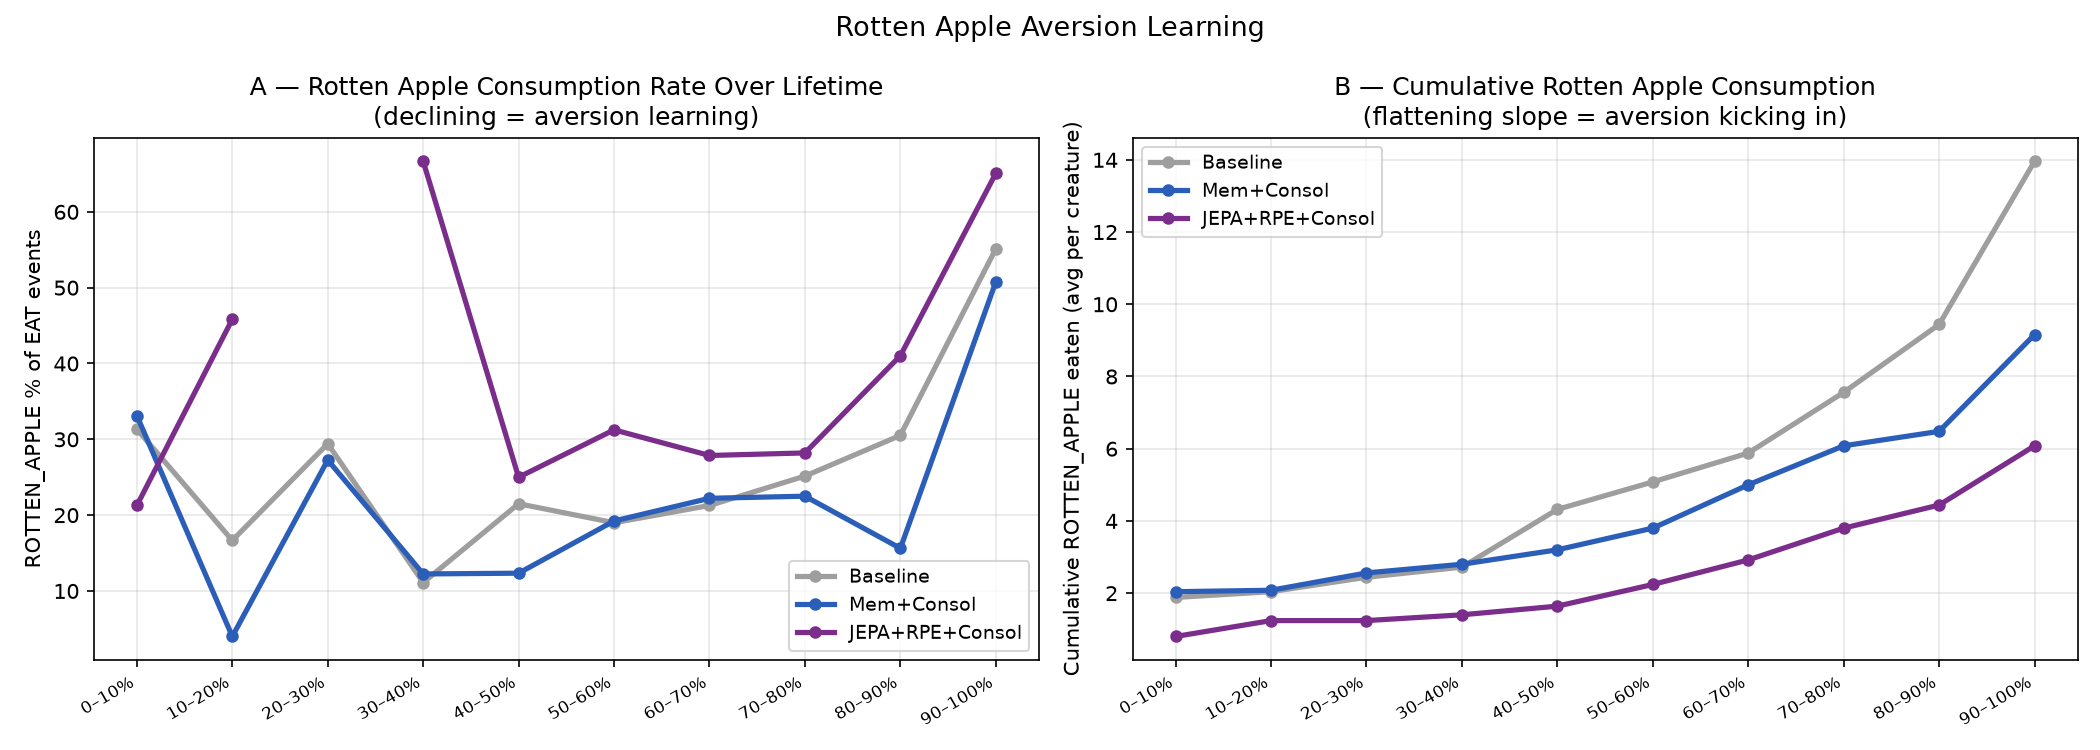
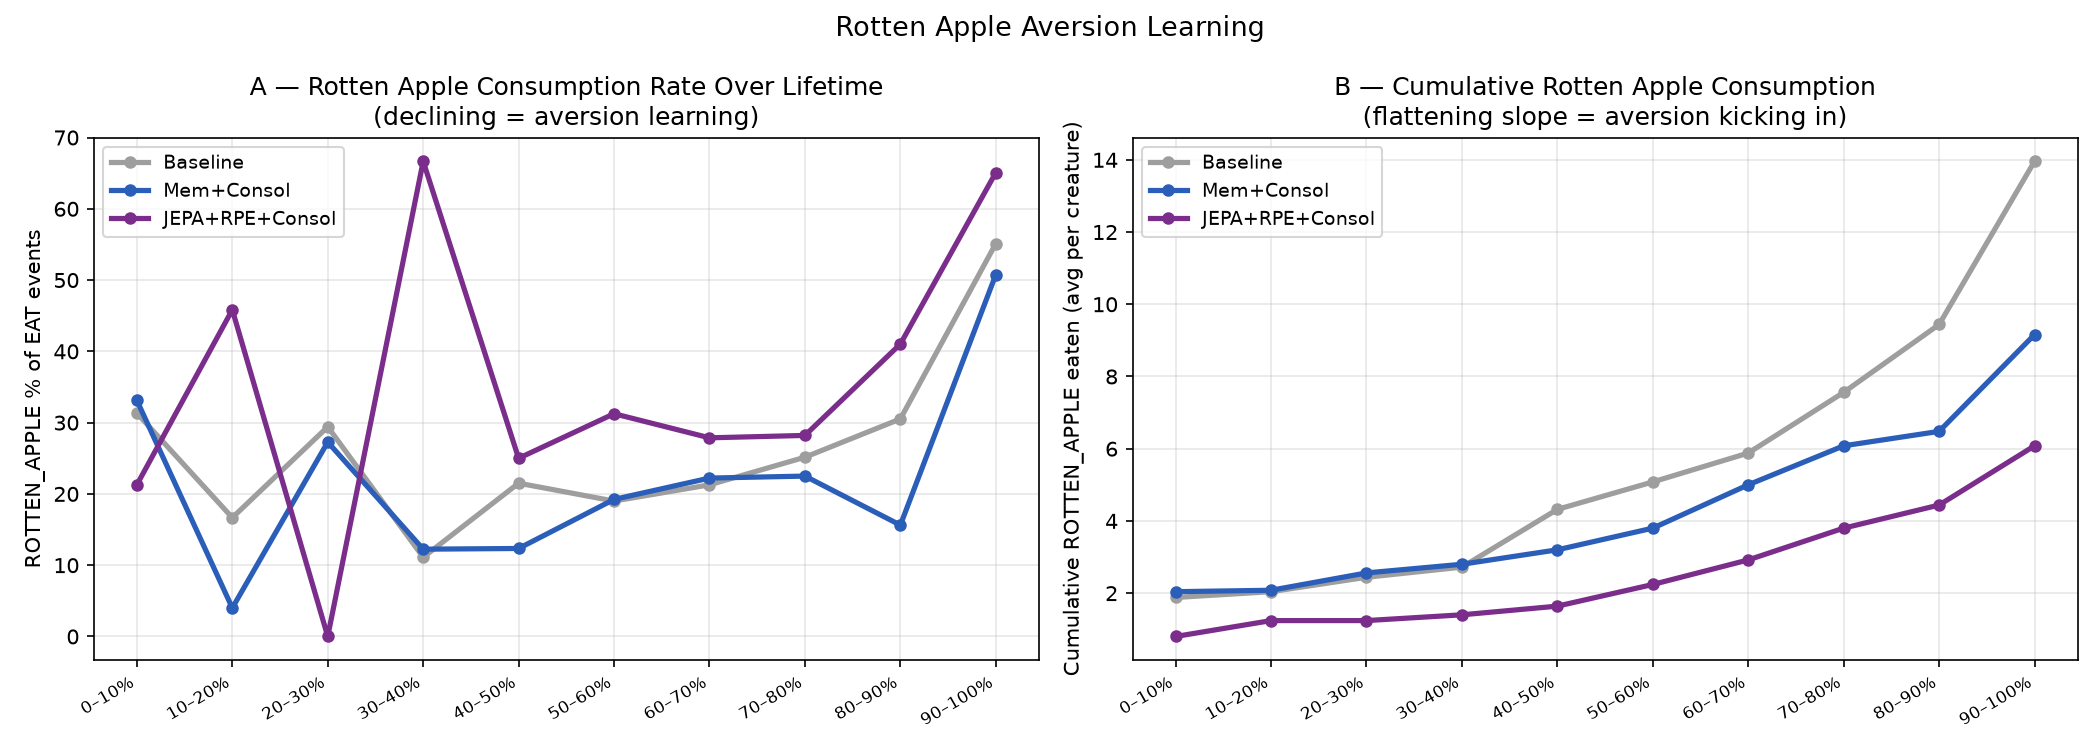
fix(rotten-fruit): correct four figure/report bugs in rotten_fruit_v1 analysis
- Survival figure: y-axis now shows minutes instead of seconds (/ 60)
- Neuromodulators: use elapsed_s (wall-clock approximation via seq/max_seq × lifetime)
  instead of raw seq ticks, so JEPA and baseline lines span equal real time
- Rotten apple consumption: reindex both rotten_by_decile and total_by_decile to
  all 10 deciles before dividing, eliminating NaN gap in JEPA purple line
- Report: clarify H1 (survival confirmed) vs H2 (aversion behavior not confirmed)
  are separate hypotheses; update lifetime table to minutes

diff --git a/analysis/exp_rotten_fruit_v1.py b/analysis/exp_rotten_fruit_v1.py
@@ -121,6 +121,19 @@ neuro["dopamine"]       = num(neuro["dopamine"])
 neuro["serotonin"]      = num(neuro["serotonin"])
 neuro["orexin"]         = num(neuro["orexin"])
 neuro["seq"]            = num(neuro["seq"])
+
+# Approximate wall-clock elapsed time for neuromodulator records.
+# seq is a tick-based counter (not wall-clock time): JEPA creatures have fewer
+# ticks per second than baseline, so raw seq is misleading as a time axis.
+# We linearly interpolate: elapsed_s ≈ (seq / max_seq_per_creature) × lifetime_s.
+_neuro_max_seq = (
+    neuro.groupby(["creature_key", "condition", "trial"])["seq"]
+    .max().reset_index(name="neuro_max_seq")
+)
+_neuro_lifetime = creatures[["creature_key", "condition", "trial", "lifetime_s"]].drop_duplicates()
+_neuro_max_seq = _neuro_max_seq.merge(_neuro_lifetime, on=["creature_key", "condition", "trial"], how="left")
+neuro = neuro.merge(_neuro_max_seq, on=["creature_key", "condition", "trial"], how="left")
+neuro["elapsed_s"] = (neuro["seq"] / neuro["neuro_max_seq"].clip(lower=1)) * num(neuro["lifetime_s"])
 expectancy["rpe"]       = num(expectancy["rpe"])
 expectancy["expected"]  = num(expectancy["expected"])
 expectancy["reward"]    = num(expectancy["reward"])
@@ -211,11 +224,11 @@ ticks_by_cond = {ck: creatures[creatures["condition"] == ck]["tick_count"].value
 fig, axes = plt.subplots(1, 2, figsize=(13, 5))
 
 ax = axes[0]
-bp = ax.boxplot([np.array(lifetimes[ck]) for ck, _ in CONDITIONS],
+bp = ax.boxplot([np.array(lifetimes[ck]) / 60 for ck, _ in CONDITIONS],
                 tick_labels=COND_LABELS, patch_artist=True)
 for patch, (ck, _) in zip(bp["boxes"], CONDITIONS):
     patch.set_facecolor(PALETTE[ck]); patch.set_alpha(0.7)
-ax.set_ylabel("Lifetime (s)")
+ax.set_ylabel("Lifetime (min)")
 ax.set_title("Wall-clock Lifetime")
 ax.grid(axis="y", alpha=0.3)
 
@@ -261,8 +274,12 @@ for ck, cl in CONDITIONS:
         total_mouth[total_mouth["condition"] == ck]
         .groupby("life_decile").size()
     )
-    pct = (rotten_by_decile / total_by_decile.clip(lower=1) * 100).reindex(range(10), fill_value=np.nan)
-    ax.plot(range(10), pct.values, color=PALETTE[ck], lw=2.5, marker="o", ms=5, label=cl)
+    # Reindex both to all 10 deciles before dividing to avoid NaN from missing keys.
+    # Deciles with total=0 → NaN (genuinely no data); deciles with total>0, rotten=0 → 0%.
+    r_filled = rotten_by_decile.reindex(range(10), fill_value=0)
+    t_filled = total_by_decile.reindex(range(10), fill_value=0)
+    pct = np.where(t_filled > 0, r_filled / t_filled.clip(lower=1) * 100, np.nan)
+    ax.plot(range(10), pct, color=PALETTE[ck], lw=2.5, marker="o", ms=5, label=cl)
 
 ax.set_xticks(range(10))
 ax.set_xticklabels(DECILE_LABELS, rotation=30, ha="right", fontsize=8)
@@ -467,8 +484,8 @@ print("  → 05_drives.png")
 # ══════════════════════════════════════════════════════════════════════════════
 print("\n=== 6. NEUROMODULATORS ===")
 
-BIN_N = 300
-neuro["time_bin"] = (neuro["seq"] // BIN_N).astype(int)
+BIN_S_NEURO = 5  # 5-second bins based on approximated wall-clock elapsed time
+neuro["time_bin"] = (neuro["elapsed_s"] // BIN_S_NEURO).clip(lower=0).astype(int)
 
 fig, axes = plt.subplots(1, 3, figsize=(16, 5))
 for ax, nm, nm_name in zip(axes, ["dopamine", "serotonin", "orexin"],
@@ -476,7 +493,7 @@ for ax, nm, nm_name in zip(axes, ["dopamine", "serotonin", "orexin"],
     for ck, cl in CONDITIONS:
         sub = neuro[neuro["condition"] == ck]
         gb  = sub.groupby("time_bin")[nm].mean()
-        t   = gb.index * BIN_N / 60
+        t   = gb.index * BIN_S_NEURO / 60
         ax.plot(t, gb, color=PALETTE[ck], lw=2, label=cl)
     ax.set_title(nm_name)
     ax.set_xlabel("Time (min)")

diff --git a/docs/reports/rotten_fruit_v1_report.md b/docs/reports/rotten_fruit_v1_report.md
@@ -55,11 +55,11 @@ error mechanism can detect the novel item and adapt creature behaviour within a 
 
 ![Survival](figures/rotten_fruit_v1/01_survival.png)
 
-| Condition | Lifetime (s) | ± SD | n |
+| Condition | Lifetime (min) | ± SD | n |
 |-----------|:-----------:|:----:|:-:|
-| Baseline | 106.72 | 24.52 | 25 |
-| Mem+Consol | 98.58 | 25.86 | 25 |
-| **JEPA+RPE+Consol** | **141.84** | 30.87 | 25 |
+| Baseline | 1.78 | 0.41 | 25 |
+| Mem+Consol | 1.64 | 0.43 | 25 |
+| **JEPA+RPE+Consol** | **2.36** | 0.51 | 25 |
 
 Kruskal-Wallis: H = 21.714, p < 0.0001.
 
@@ -69,10 +69,10 @@ Kruskal-Wallis: H = 21.714, p < 0.0001.
 | Baseline vs JEPA+RPE+Consol | 0.0003 | *** |
 | Mem+Consol vs JEPA+RPE+Consol | < 0.0001 | *** |
 
-**H1: Confirmed.** JEPA+RPE+Consol creatures survive **33% longer** than baseline (141.8s vs
-106.7s, p = 0.0003) and **44% longer** than Memory+Consolidation (p < 0.0001). Notably, the
+**H1: Confirmed.** JEPA+RPE+Consol creatures survive **33% longer** than baseline (2.36 min vs
+1.78 min, p = 0.0003) and **44% longer** than Memory+Consolidation (p < 0.0001). Notably, the
 Memory condition shows no survival advantage over baseline in the novel world (p = 0.313 ns),
-and its mean lifetime is actually lower (98.6s vs 106.7s).
+and its mean lifetime is actually lower (1.64 min vs 1.78 min).
 
 ### 2. Rotten Apple Consumption
 
@@ -90,11 +90,14 @@ and its mean lifetime is actually lower (98.6s vs 106.7s).
 | Mem+Consol | 374 (42.4%) | 279 (31.6%) | 229 (26.0%) |
 | JEPA+RPE+Consol | 183 (41.7%) | 104 (23.7%) | 152 (34.6%) |
 
-**H2: Not confirmed.** None of the conditions show meaningful rotten apple avoidance within
-the 2-hour window. The JEPA condition has the highest rotten apple percentage (34.6%) despite
-surviving the longest, though it has far fewer total eating events (439 vs 1,177 for baseline).
-The Memory+Consolidation condition shows a modest reduction in rotten proportion (26.0%), but
-this is not statistically distinguishable from baseline-level variability within 5 trials.
+**H2: Not confirmed.** While H1 established that JEPA+RPE+Consol creatures *survive* longer
+(2.36 min vs 1.78 min), H2 asks a separate question: does any condition learn a *behavioral
+aversion* to rotten apples specifically? The answer is no. No condition reduces its rotten apple
+consumption proportion over the 2-hour window. The JEPA condition actually has the highest
+rotten apple percentage (34.6%) despite surviving the longest, though it has far fewer total
+eating events (439 vs 1,177 for baseline). The Memory+Consolidation condition shows a modest
+reduction in rotten proportion (26.0%), but this is not statistically distinguishable from
+baseline-level variability within 5 trials.
 
 JEPA creatures eat dramatically less overall (439 EAT events vs 1,177 baseline). This is not
 explained by food deprivation — these creatures survive longer, suggesting they are more
@@ -238,7 +241,7 @@ between consolidation overhead and adaptation benefit warrants further study.
 
 | Metric | Baseline | Mem+Consol | JEPA+RPE+Consol |
 |--------|:-------:|:----------:|:----------------:|
-| Lifetime (s) | 106.7 | 98.6 | **141.8** |
+| Lifetime (min) | 1.78 | 1.64 | **2.36** |
 | Ticks | 9,587 | 8,752 | **5,349** |
 | Total EAT | **1,177** | 882 | 439 |
 | Rotten EAT | 349 | 229 | 152 |
@@ -255,15 +258,16 @@ between consolidation overhead and adaptation benefit warrants further study.
 ## Conclusions
 
 **H1: Confirmed.** JEPA+RPE+Consol survives significantly longer in the novel rotten-fruit
-world (141.8s vs 106.7s baseline, p = 0.0003). The survival advantage is driven by systemic
+world (2.36 min vs 1.78 min baseline, p = 0.0003). The survival advantage is driven by systemic
 efficiency (lower arousal, fewer opportunistic eating events, fewer rotten encounters)
 rather than by learned specific aversion.
 
-**H2: Not confirmed.** No condition shows behavioural rotten-apple aversion within the
-2-hour experiment window. JEPA creatures actually eat a slightly higher proportion of rotten
-apples (34.6% vs 29.7%) despite having fewer absolute rotten eating events. Meaningful
-avoidance learning would likely require 4–8 hours or multiple repeated trials in the same
-world.
+**H2: Not confirmed.** H1 and H2 address distinct questions. H1 is about survival — confirmed.
+H2 asks whether any condition learns a *behavioral aversion to rotten apples specifically* —
+not confirmed. No condition reduces its rotten apple consumption proportion over the 2-hour
+window. JEPA creatures actually eat a slightly higher proportion of rotten apples (34.6% vs
+29.7%) despite having fewer absolute rotten eating events. Meaningful avoidance learning
+would likely require 4–8 hours or multiple repeated trials in the same world.
 
 **H3: Confirmed.** JEPA+RPE+Consol generates |RPE| 5.7× larger than baseline (0.4051 vs
 0.072), confirming the world model is actively producing prediction errors in response to